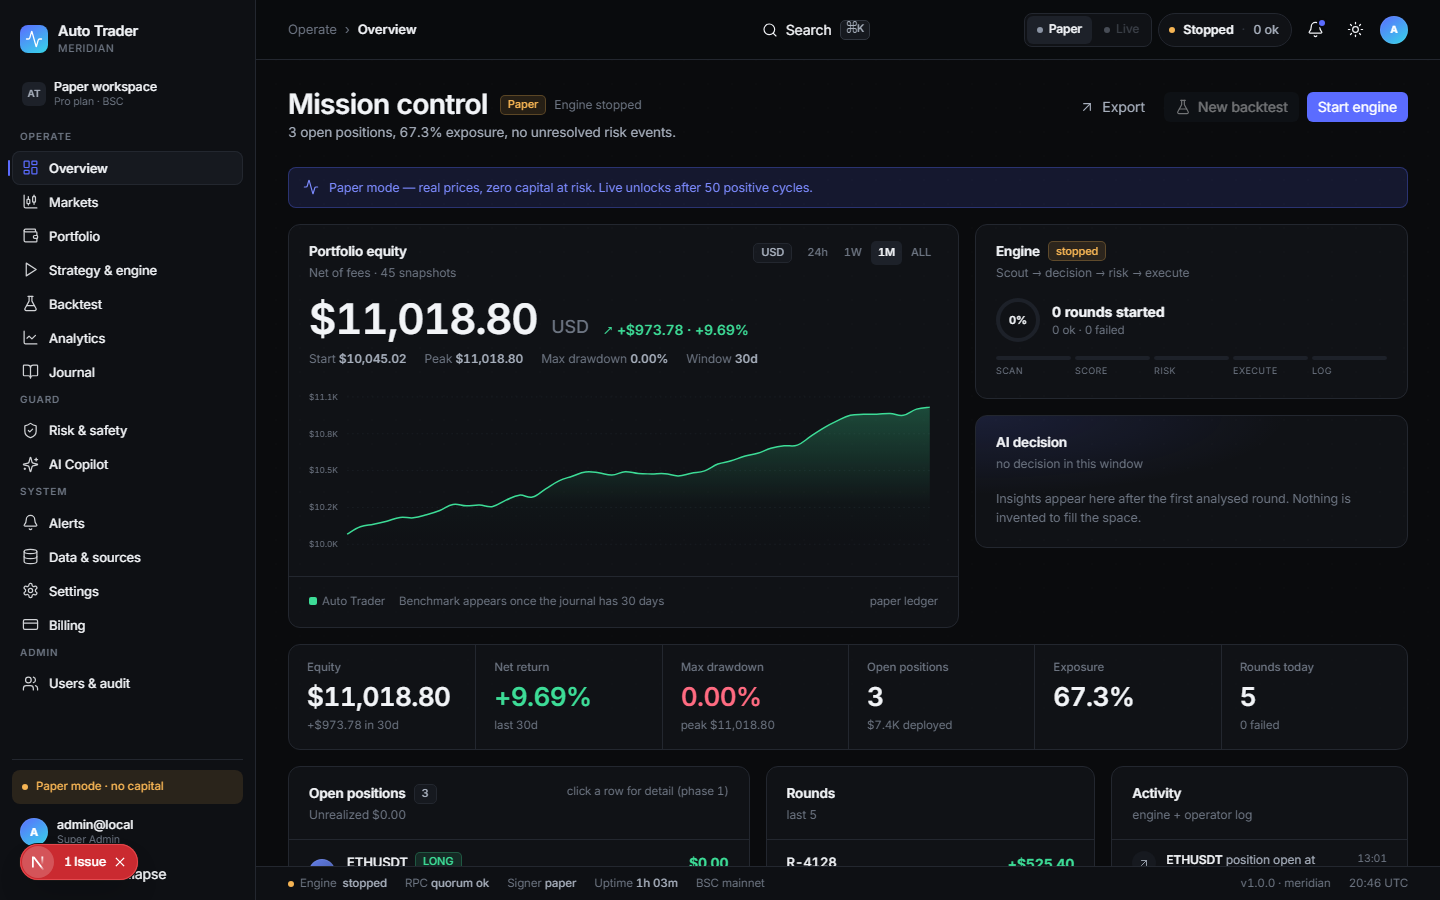
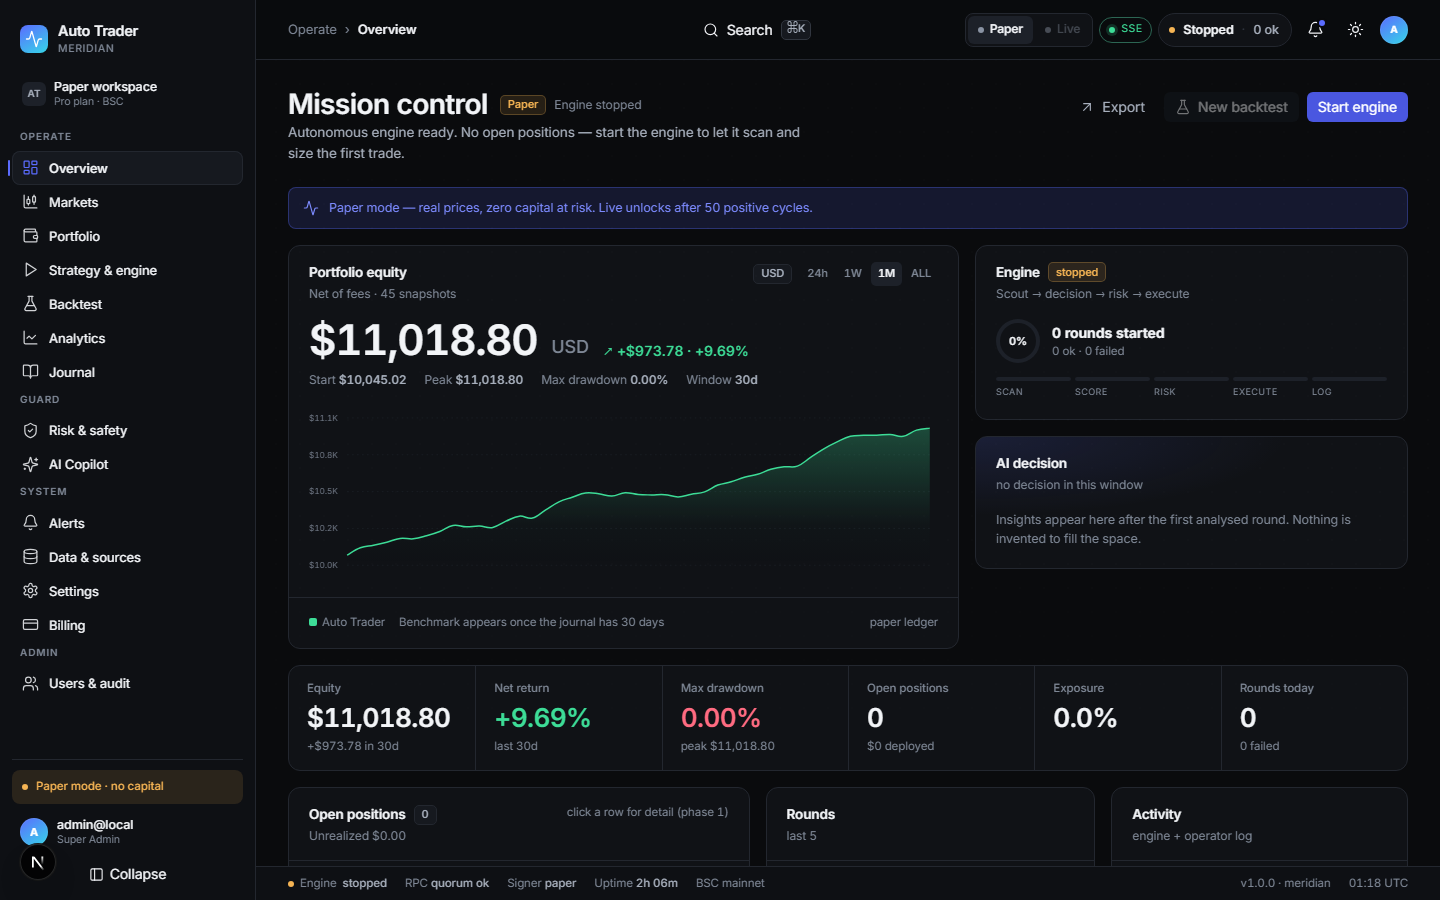
feat(ui): overview em tempo real via SSE + e2e de alerts, MFA e legal (#63)
Hook useLiveEvents assina /api/stream no shell: cada evento invalida os caches afetados (positions, analytics, status, config, rounds) e o indicador na topbar mostra SSE/polling. Se o stream cai, o polling existente continua como fallback e o EventSource reconecta sozinho. E2E: cria/edita/remove canal de alerta, abre o painel de MFA e confirma o campo desabilitado, valida o indicador SSE e cobre /privacy e /terms no bloco anonimo (9 testes).

diff --git a/src/components/meridian/use-live-events.ts b/src/components/meridian/use-live-events.ts
@@ -1,0 +1,79 @@
+"use client";
+
+import { useEffect, useState } from "react";
+import { useQueryClient } from "@tanstack/react-query";
+
+export type LiveStatus = "connecting" | "live" | "polling";
+
+interface BusEvent {
+  id?: number;
+  type?: string;
+  level?: string;
+  source?: string;
+  title?: string;
+  message?: string;
+  timestamp?: string;
+}
+
+const INVALIDATE_BY_TYPE: Record<string, string[]> = {
+  position: ["positions", "analytics", "status", "rounds"],
+  trade: ["positions", "analytics", "status", "rounds"],
+  kill_switch: ["config", "status", "positions", "risk-scale"],
+  risk: ["config", "risk-scale", "status"],
+  engine: ["status", "rounds", "config"],
+  system: ["status"],
+};
+
+/**
+ * Assina /api/stream (SSE) e invalida os caches afetados por cada evento.
+ * Se o stream cair, as telas continuam funcionando pelo polling normal; o
+ * estado vira "polling" e o EventSource tenta reconectar sozinho.
+ */
+export function useLiveEvents() {
+  const qc = useQueryClient();
+  const [status, setStatus] = useState<LiveStatus>("connecting");
+  const [last, setLast] = useState<BusEvent | null>(null);
+
+  useEffect(() => {
+    if (typeof window === "undefined" || typeof EventSource === "undefined") return;
+
+    const es = new EventSource("/api/stream");
+    let closed = false;
+
+    const goLive = () => {
+      if (!closed) setStatus("live");
+    };
+
+    es.addEventListener("hello", goLive);
+
+    es.addEventListener("event", (raw) => {
+      if (closed) return;
+      let event: BusEvent;
+      try {
+        event = JSON.parse((raw as MessageEvent<string>).data) as BusEvent;
+      } catch {
+        return;
+      }
+      setStatus("live");
+      setLast(event);
+
+      const keys = INVALIDATE_BY_TYPE[event.type ?? ""] ?? ["status", "positions", "rounds"];
+      for (const key of keys) {
+        void qc.invalidateQueries({ queryKey: ["mrd", key] });
+      }
+    });
+
+    es.onerror = () => {
+      if (closed) return;
+      setStatus("polling");
+      // EventSource reconnects automaticamente; o polling segue como fallback.
+    };
+
+    return () => {
+      closed = true;
+      es.close();
+    };
+  }, [qc]);
+
+  return { status, last };
+}

diff --git a/e2e/meridian.spec.ts b/e2e/meridian.spec.ts
@@ -61,6 +61,43 @@ test("kill switch exige HALT e não dispara sem confirmação", async ({ page })
   await expect(dialog).toBeHidden();
 });
 
+
+test("canais de alerta: cria, edita e remove", async ({ page }) => {
+  await page.goto("/alerts");
+  await expect(page.locator(".mrd-title")).toContainText("Alerts", { timeout: 20_000 });
+
+  await page.getByRole("button", { name: /new channel/i }).click();
+  const modal = page.locator(".mrd-modal");
+  await expect(modal).toBeVisible();
+  await modal.locator("input").first().fill("E2E canal");
+  await modal.locator("select").selectOption("webhook");
+  await modal.locator('input[type="text"]').last().fill("https://example.com/e2e-hook");
+  await modal.getByRole("button", { name: /criar canal/i }).click();
+
+  await expect(page.locator(".mrd-side").getByText("E2E canal")).toBeVisible({ timeout: 15_000 });
+
+  await page.locator(".mrd-side").getByRole("button", { name: "E2E canal" }).click();
+  await expect(modal.getByRole("button", { name: /^remover$/i })).toBeVisible();
+  await modal.getByRole("button", { name: /^remover$/i }).click();
+  await expect(page.locator(".mrd-side").getByText("E2E canal")).toHaveCount(0, { timeout: 15_000 });
+});
+
+test("MFA: painel de setup mostra segredo e campo de código", async ({ page }) => {
+  await page.goto("/settings");
+  await expect(page.locator(".mrd-title")).toContainText("Settings", { timeout: 20_000 });
+  await page.getByRole("button", { name: /^configurar$/i }).click();
+
+  await expect(page.getByText("Código de 6 dígitos gerado pelo app")).toBeVisible({ timeout: 15_000 });
+  await expect(page.getByRole("button", { name: /ativar mfa/i })).toBeDisabled();
+  await page.getByRole("button", { name: /^cancelar$/i }).click();
+  await expect(page.getByText("Código de 6 dígitos gerado pelo app")).toHaveCount(0);
+});
+
+test("indicador SSE fica live no shell", async ({ page }) => {
+  await page.goto("/overview");
+  await expect(page.locator(".mrd-live")).toHaveText(/SSE/i, { timeout: 20_000 });
+});
+
 test.describe("anônimo", () => {
   test.use({ storageState: { cookies: [], origins: [] } });
 

diff --git a/src/components/meridian/shell.tsx b/src/components/meridian/shell.tsx
@@ -9,6 +9,7 @@ import { clockUtc, duration } from "@/lib/meridian/format";
 import { apiGet, type RuntimeStatus } from "./api";
 import { Icon } from "./icons";
 import { OnboardingWizard } from "./onboarding-wizard";
+import { useLiveEvents } from "./use-live-events";
 import { Dot } from "./ui";
 
 interface ShellProps {
@@ -101,6 +102,7 @@ export function Shell({ user, serverNow, children }: ShellProps) {
     writeStore("mrd.theme", theme === "dark" ? "light" : "dark");
   }, [theme]);
 
+  const live = useLiveEvents();
   const runtime = status.data?.runtime ?? (status.isLoading ? "…" : "STOPPED");
   const running = runtime === "RUNNING";
   const currentLabel = pathname.startsWith("/positions")
@@ -223,6 +225,19 @@ export function Shell({ user, serverNow, children }: ShellProps) {
                   <Dot /> Live
                 </button>
               </div>
+              <span
+                className={`mrd-live mrd-live-${live.status}`}
+                title={
+                  live.status === "live"
+                    ? `SSE conectado${live.last?.title ? " · " + live.last.title : ""}`
+                    : live.status === "connecting"
+                      ? "Conectando ao stream"
+                      : "Stream indisponível — polling ativo"
+                }
+              >
+                <i />
+                {live.status === "live" ? "SSE" : live.status === "connecting" ? "…" : "polling"}
+              </span>
               <span className="mrd-engine">
                 <Dot tone={running ? "pos" : status.data ? "warn" : "neutral"} live={running} />
                 <b>{running ? "Running" : runtime === "…" ? "…" : "Stopped"}</b>

diff --git a/src/app/(meridian)/meridian.css b/src/app/(meridian)/meridian.css
@@ -629,3 +629,16 @@ button.mrd-btn-danger-solid { background: var(--crit-solid); color: #fff; }
 .mrd-legal-body strong { color: var(--text); font-weight: 600; }
 .mrd-legal-body code { font-size: 12px; padding: 1px 5px; border-radius: 4px; background: var(--surface-2); border: 1px solid var(--line); }
 .mrd-legal-body hr { border: none; border-top: 1px solid var(--line); margin: 32px 0 18px; }
+
+/* ---------- indicador SSE ---------- */
+.mrd-live {
+  display: inline-flex; align-items: center; gap: 6px; height: 26px; padding: 0 9px;
+  border: 1px solid var(--line); border-radius: 99px; font-size: 10.5px;
+  letter-spacing: 0.04em; color: var(--text-3); text-transform: uppercase;
+}
+.mrd-live i { width: 6px; height: 6px; border-radius: 50%; background: var(--text-3); }
+.mrd-live-live { color: var(--positive); border-color: color-mix(in srgb, var(--positive) 35%, var(--line)); }
+.mrd-live-live i { background: var(--positive); box-shadow: 0 0 0 3px color-mix(in srgb, var(--positive) 18%, transparent); }
+.mrd-live-polling { color: var(--warning); }
+.mrd-live-polling i { background: var(--warning); }
+@media (max-width: 900px) { .mrd-live { display: none; } }
